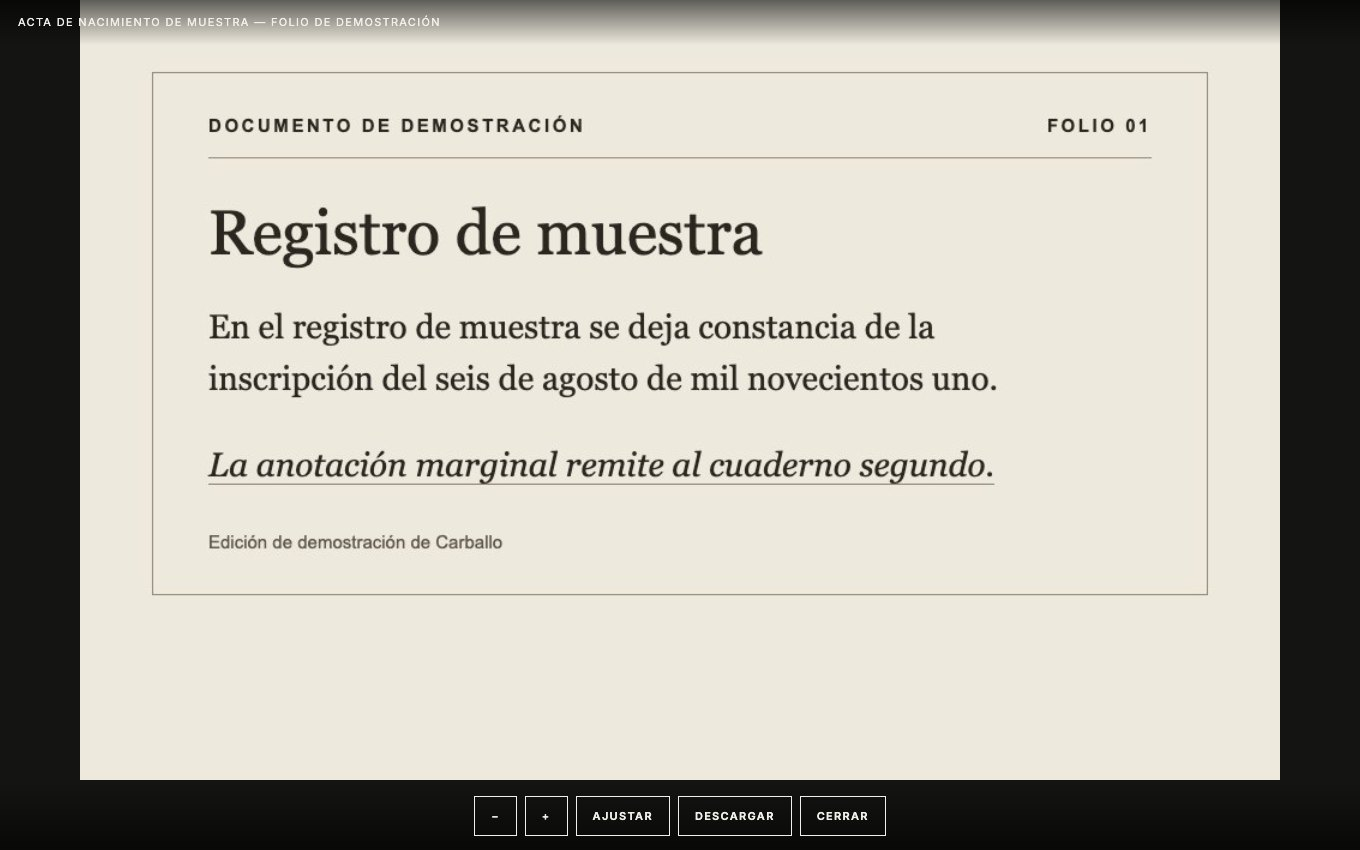
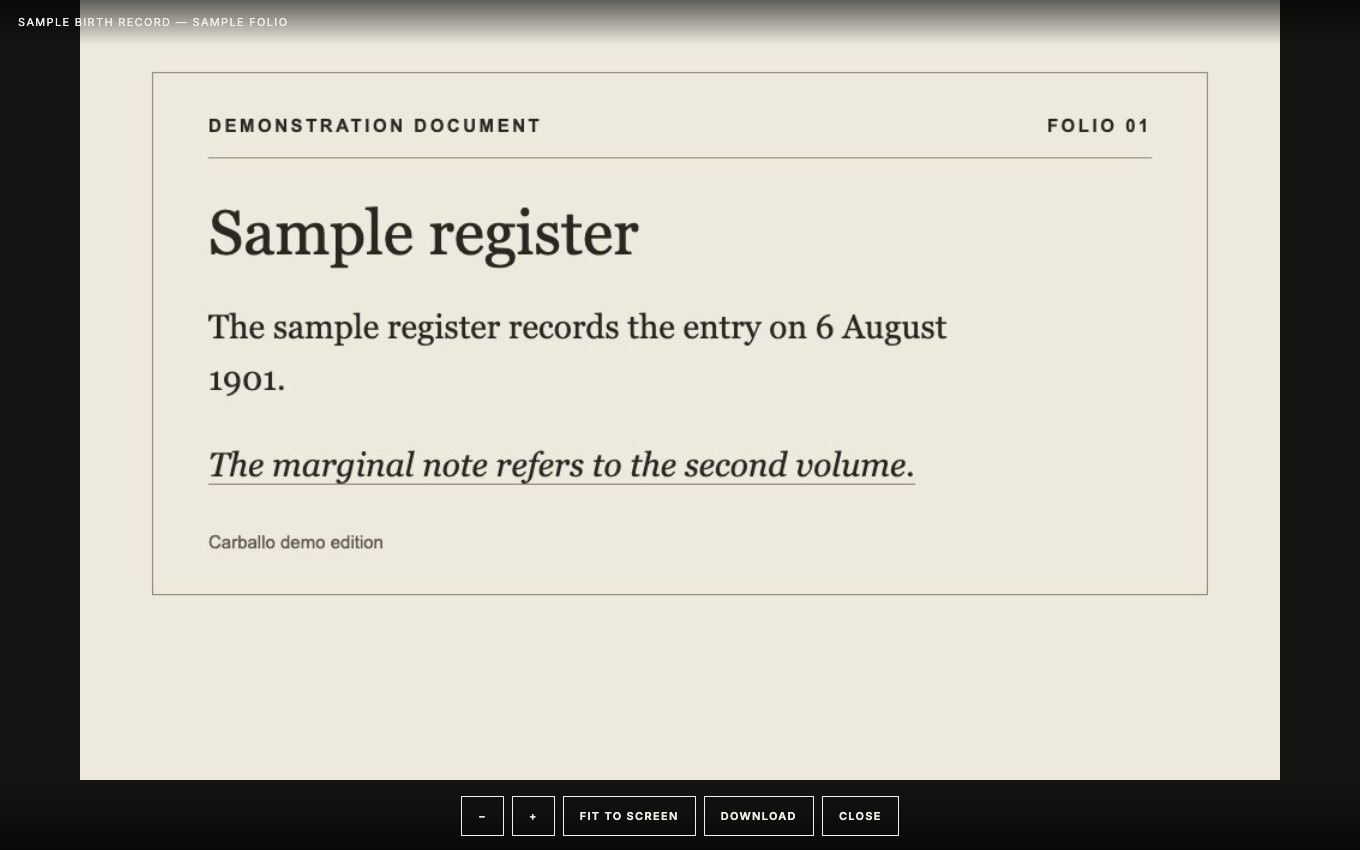
Localize the Carballo portfolio and demo in English

diff --git a/README.md b/README.md
@@ -2,53 +2,53 @@
 
 <picture>
   <source media="(prefers-color-scheme: dark)" srcset="source/src/marca/carballo-claro.webp">
-  <img src="source/src/marca/carballo.webp" width="420" alt="Escudo y firma Carballo">
+  <img src="source/src/marca/carballo.webp" width="420" alt="Carballo coat of arms and signature">
 </picture>
 
-Archivo web familiar con identidad visual propia. Reúne una línea genealógica, transcripciones y un visor de actas históricas para leer y cotejar los documentos desde el navegador.
+Carballo is a family history website that brings a genealogy, transcriptions, and historical records together in a browser-based document viewer.
 
-**Diseño y desarrollo por [Martin Alejandro Morfe Carballo](https://github.com/morfemartin) · [Morfe Estudio](https://morfe.studio/)**
+**Designed and developed by [Martin Alejandro Morfe Carballo](https://github.com/morfemartin) · [Morfe Estudio](https://morfe.studio/)**
 
-[Ver la edición publicada en GitHub Pages](https://morfemartin.github.io/expediente-familiar/) · [Probar la demo local](#probar-la-demo)
+[View the family edition on GitHub Pages](https://morfemartin.github.io/expediente-familiar/) · [Run the English demo](#run-the-english-demo)
 
-## De la firma al logotipo
+## From handwritten signature to visual identity
 
-La identidad parte de la firma de Carlos Carballo que aparece en el acta de defunción de Francisco Carballo, de 1886. En Adobe Illustrator amplié el trazo manuscrito y trabajé tres variantes vectoriales, la firma, el escudo y la composición que reúne ambos elementos.
+The identity began with Carlos Carballo's signature on Francisco Carballo's 1886 death record. In Adobe Illustrator, I examined the handwritten strokes at a larger scale and developed three vector assets: the signature, the coat of arms, and the combined mark.
 
-![Detalle de la firma manuscrita y las tres variantes en el panel de exportación de Illustrator](docs/illustrator/detalle-de-la-firma.jpg)
+![Close-up of the handwritten signature and the three variants in the Illustrator export panel](docs/illustrator/detalle-de-la-firma.jpg)
 
-![Comparación del folio con la composición final del escudo y la firma en Illustrator](docs/illustrator/firma-y-escudo.jpg)
+![The historical folio beside the finished signature and coat of arms in Illustrator](docs/illustrator/firma-y-escudo.jpg)
 
-La composición mantiene el color del escudo y adapta la firma a fondos claros y oscuros. El escudo también funciona como favicon. La web usa exportaciones WebP de la familia de marcas.
+The coat of arms retains its original colors. The signature has separate versions for light and dark backgrounds, and the coat of arms doubles as the favicon. The site serves the marks as WebP images.
 
-## Cómo funciona la web
+## How the site works
 
-- **Generación estática.** Node.js compila las fichas, sus transcripciones y los folios para publicar en GitHub Pages. El generador funciona sin dependencias de npm.
-- **Acceso y lectura.** El expediente se descifra en el navegador mediante Web Crypto, con AES-GCM de 256 bits y una clave derivada con PBKDF2-SHA-256. Los folios se descifran individualmente conforme se recorren y se pueden ampliar y descargar desde el visor.
-- **Registro de visitas.** La edición privada puede registrar el nombre declarado al abrir el expediente mediante una aplicación web de Apps Script y una hoja de Google Sheets. La URL de registro viaja dentro del expediente cifrado.
+- **Static generation.** A dependency-free Node.js generator builds the record pages, transcriptions, and encrypted folios for GitHub Pages.
+- **Access and reading.** The browser decrypts the archive with AES-256-GCM through Web Crypto. The encryption key is derived with PBKDF2-SHA-256. Individual folios load and decrypt as readers scroll and can be zoomed or downloaded in the viewer.
+- **Visit logging.** The private edition can record the name entered at sign-in using an Apps Script web app and a Google Sheet. The endpoint is stored in the encrypted archive.
 
-El documento inicial de la web publicada pasó de **680 kB a 10 kB transferidos**, y el tiempo hasta que el formulario estuvo listo pasó de **4,50 s a 0,26 s**. Son medianas de tres cargas en frío en Chrome con red móvil simulada. El cuerpo del expediente empieza a descargarse al enfocar el formulario.
+The published site's initial HTML transfer dropped from **680 kB to 10 kB**. Median time until the access form was ready dropped from **4.50 s to 0.26 s**, measured across three cold loads per version in Chrome on a simulated mobile connection. The encrypted archive starts downloading when the visitor moves focus to the form.
 
-## Probar la demo
+## Run the English demo
 
-![Folio ficticio abierto en el visor de Carballo](docs/visor-demo.jpg)
+![English sample folio open in the Carballo viewer](docs/visor-demo.jpg)
 
-La demo incluye un folio ficticio, una transcripción y una nota documental. Requiere Node.js 22 o posterior y Python 3 para servir los archivos en local.
+The demo includes a fictional folio, its transcription, and a document note. It requires Node.js 22 or later and Python 3 for the local server.
 
 ```sh
 git clone https://github.com/morfemartin/expediente-familiar.git
 cd expediente-familiar
-CLAVE=carballo-demo node source/build.mjs
+PASSWORD=carballo-demo node source/build.mjs
 python3 -m http.server 8765 --bind 127.0.0.1 --directory source/dist
 ```
 
-Abre [la demo en localhost](http://127.0.0.1:8765/), escribe un nombre de prueba y utiliza la clave `carballo-demo`.
+Open [the local demo](http://127.0.0.1:8765/), enter a sample name, and use the password `carballo-demo`.
 
-| Ruta | Contenido |
+| Path | Contents |
 | --- | --- |
-| [`source/build.mjs`](source/build.mjs) | Generador estático y aplicación del navegador |
-| [`source/src/datos.mjs`](source/src/datos.mjs) | Configuración y fichas de demostración |
-| [`source/registro_apps_script.gs`](source/registro_apps_script.gs) | Receptor opcional del registro en Google Sheets |
-| [`docs/illustrator/`](docs/illustrator/) | Capturas del proceso de diseño |
+| [`source/build.mjs`](source/build.mjs) | Static generator and browser application |
+| [`source/src/datos.mjs`](source/src/datos.mjs) | Demo configuration and sample records |
+| [`source/registro_apps_script.gs`](source/registro_apps_script.gs) | Optional Google Sheets visit logger |
+| [`docs/illustrator/`](docs/illustrator/) | Original screenshots of the design process |
 
-La demo se compila en `source/dist/`. La edición familiar se publica desde la raíz del repositorio con el contenido documental cifrado. Las claves y la configuración privada se mantienen en archivos locales.
+The demo builds to `source/dist/`. The family edition is served from the repository root with its documentary content encrypted. Passwords and private configuration are stored locally.
